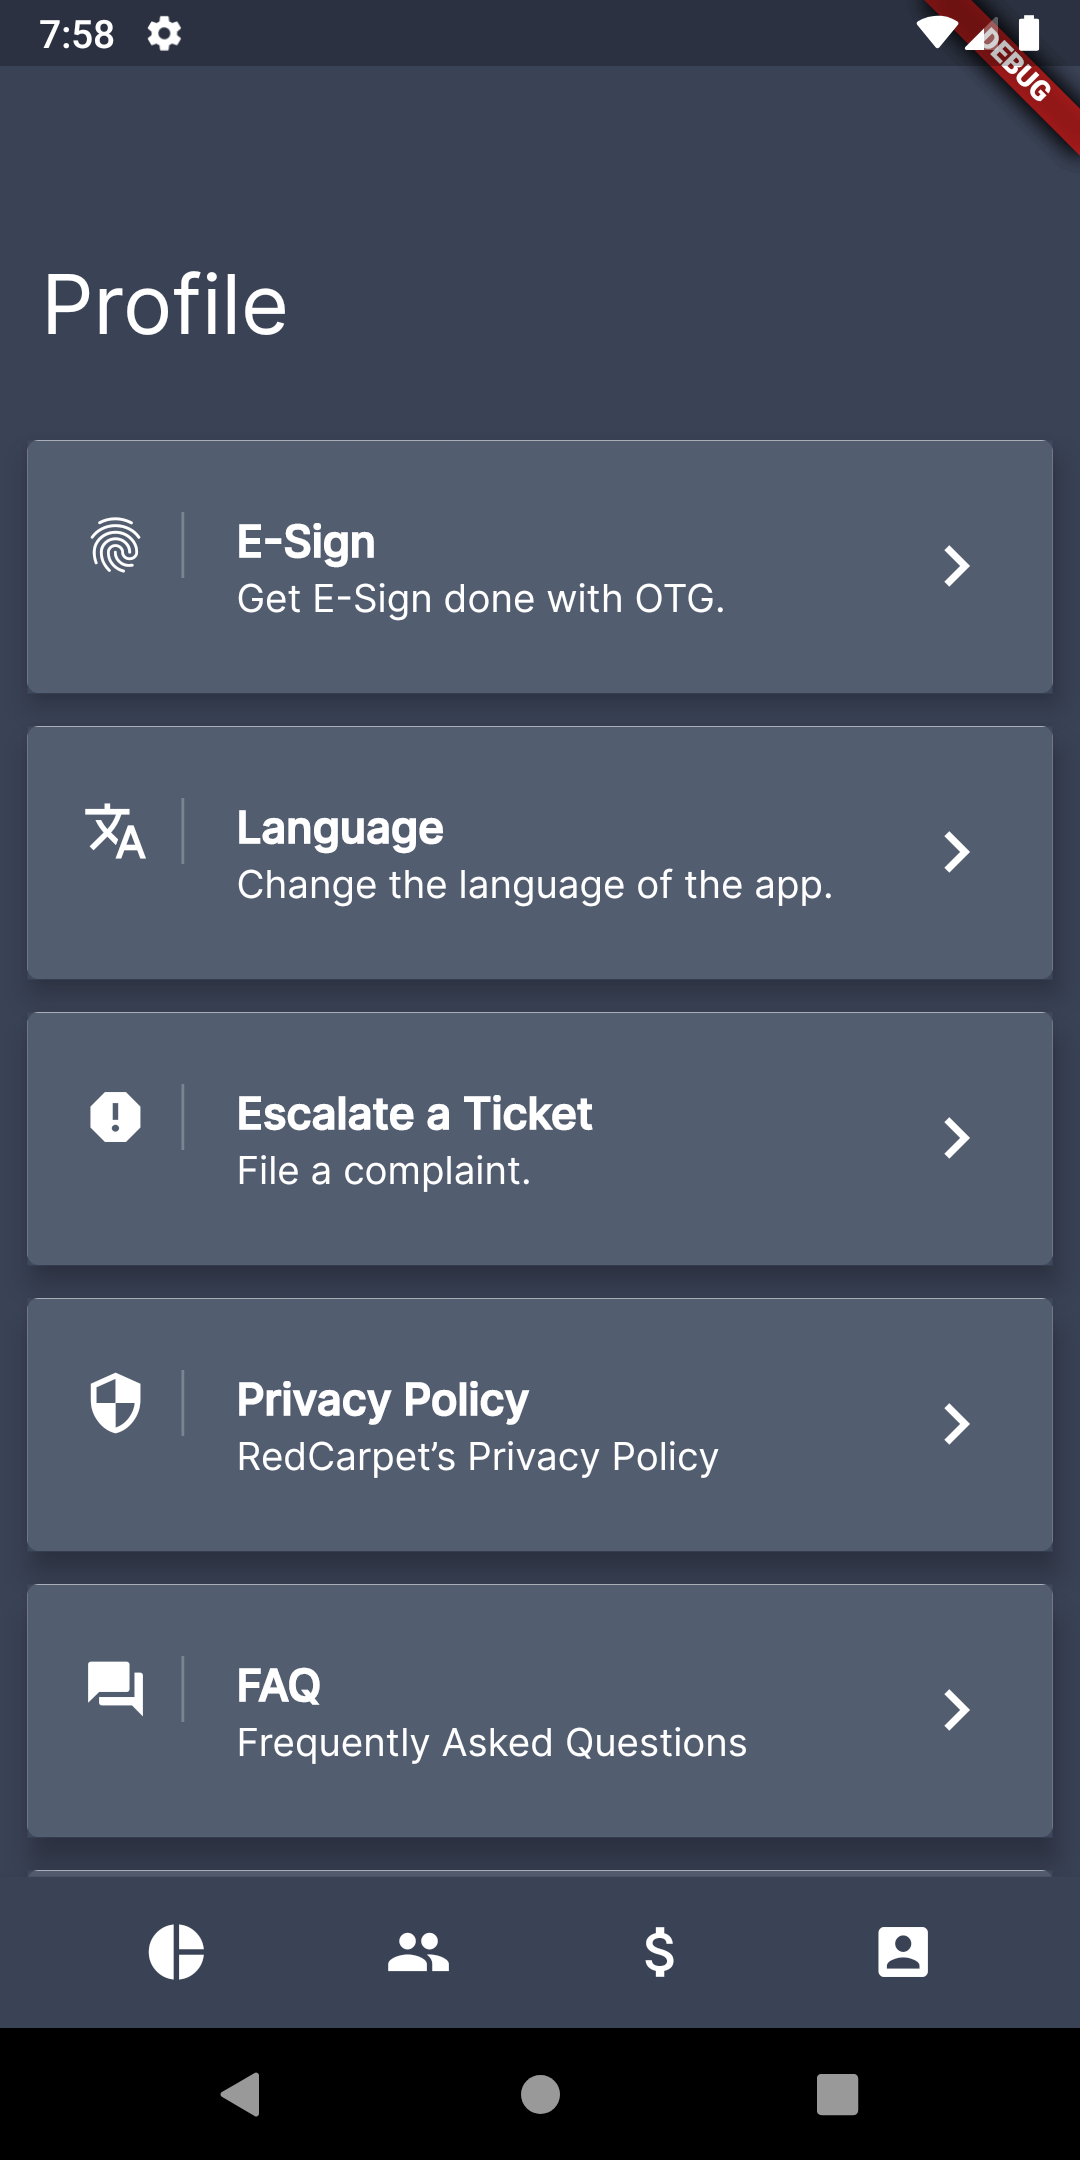
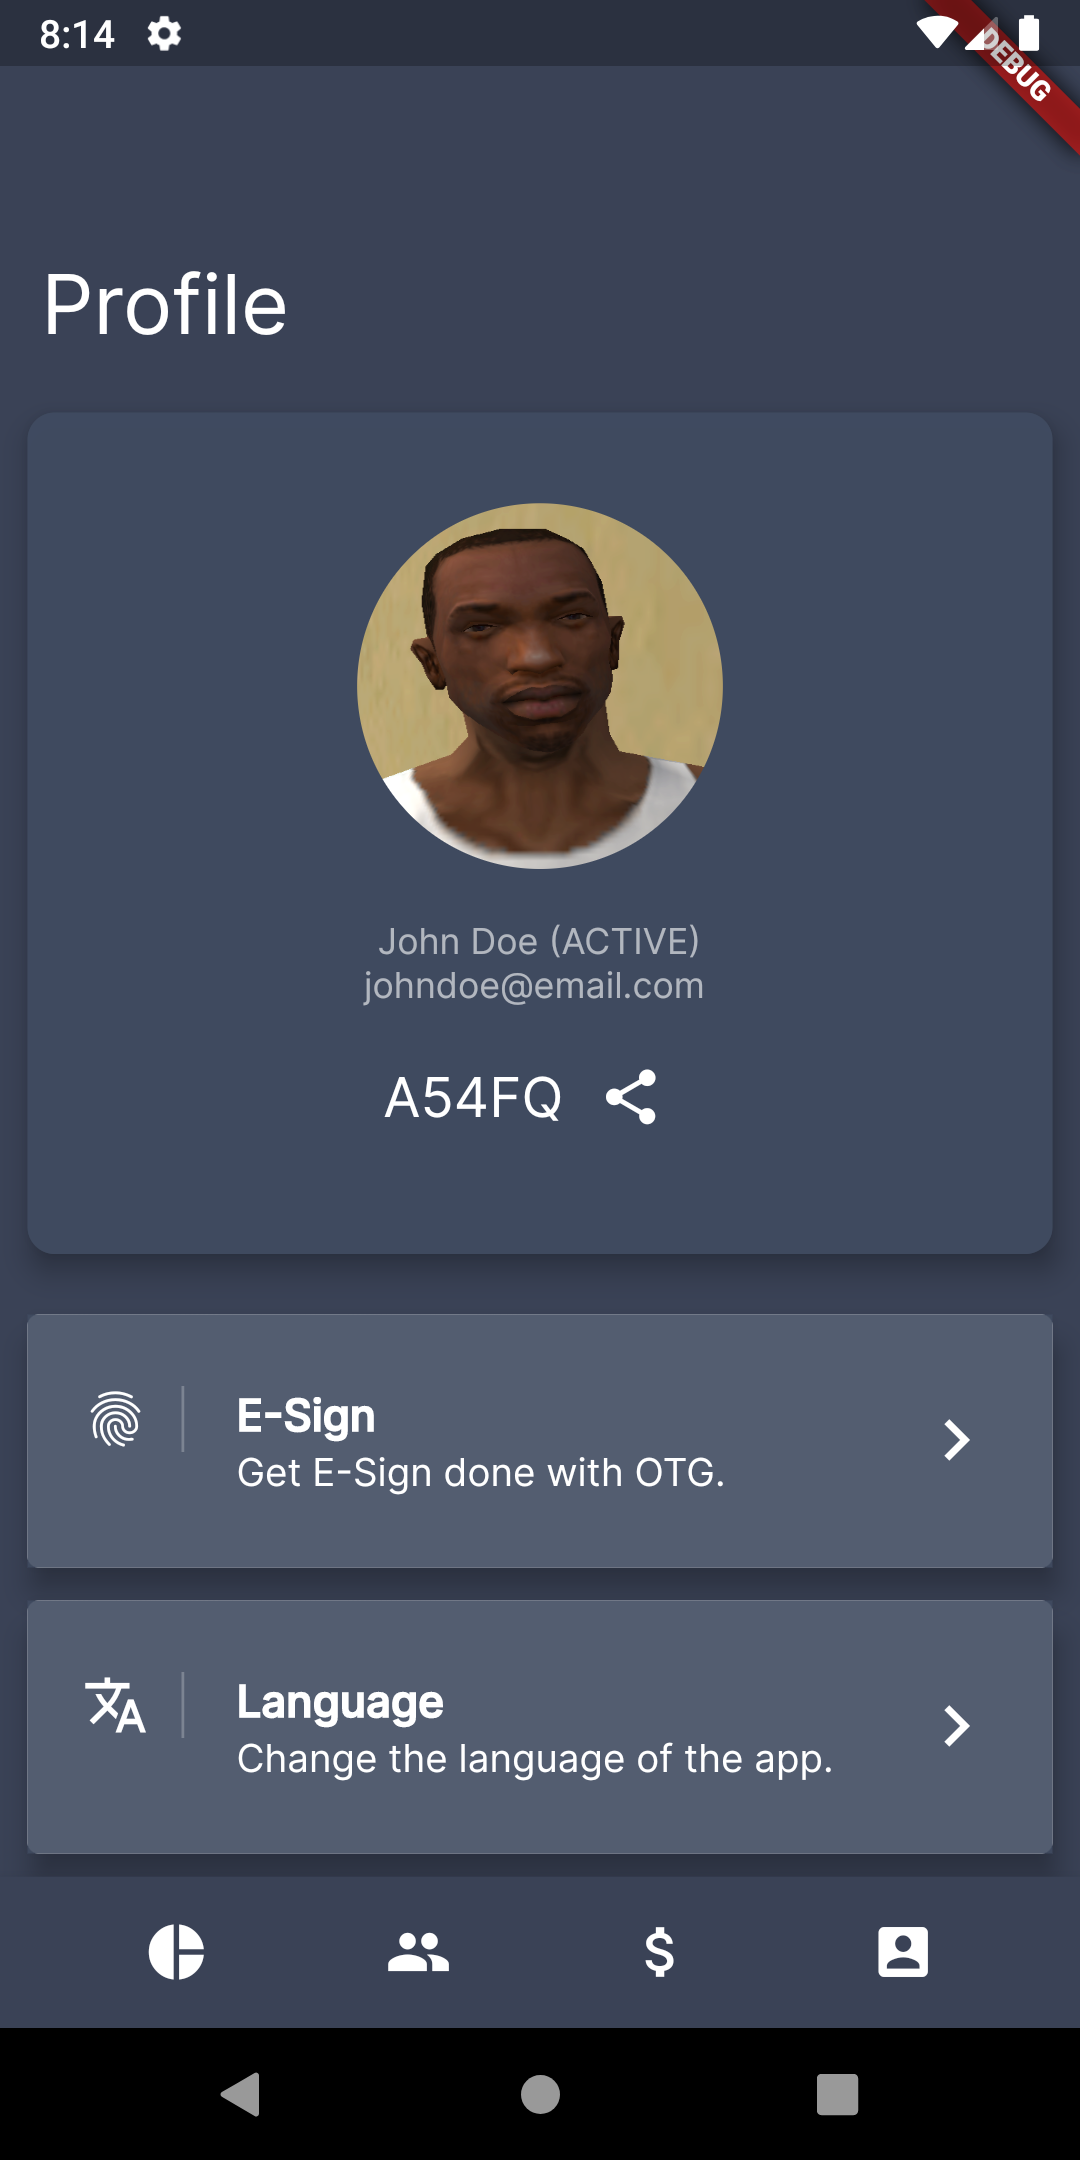
Added Profile card to Profile Screen

diff --git a/lib/Profile/profilecard.dart b/lib/Profile/profilecard.dart
@@ -1,0 +1,71 @@
+import 'package:flutter/material.dart';
+import 'package:total_recall/style.dart';
+
+class ProfileCard extends StatelessWidget {
+  @override
+  Widget build(BuildContext context) {
+    return Card(
+      elevation: 8.0,
+      margin: new EdgeInsets.symmetric(horizontal: 10.0, vertical: 6.0),
+      clipBehavior: Clip.antiAlias,
+      shape: RoundedRectangleBorder(
+        borderRadius: BorderRadius.circular(10.0),
+      ),
+      color: ColorDarkFG,
+      child: InkWell(
+          splashColor: ColorSplash,
+          onTap: () {},
+          child: Container(
+              decoration: BoxDecoration(color: ColorDarkFG),
+              padding: EdgeInsets.fromLTRB(20, 24, 20, 24),
+              child: Column(
+                children: <Widget>[
+                  Container(
+                      padding: EdgeInsets.fromLTRB(10.0, 9, 10.0, 9),
+                      //constraints: BoxConstraints.expand(height: 200.0),
+                      child: Center(
+                          child: new Column(
+                        crossAxisAlignment: CrossAxisAlignment.center,
+                        mainAxisAlignment: MainAxisAlignment.center,
+                        children: <Widget>[
+                          new Container(
+                              width: 133.0,
+                              height: 133.0,
+                              decoration: new BoxDecoration(
+                                  shape: BoxShape.circle,
+                                  image: new DecorationImage(
+                                      fit: BoxFit.fill,
+                                      image: new NetworkImage(
+                                          "https://i.imgur.com/BoN9kdC.png")))),
+                        ],
+                      ))),
+                  Container(
+                    padding: EdgeInsets.fromLTRB(10.0, 9, 10.0, 0.0),
+                    child: new Text(
+                      "John Doe (ACTIVE)",
+                      style: CardBodyTextStyle,
+                    ),
+                  ),
+                  Container(
+                    padding: EdgeInsets.fromLTRB(10.0, 0.0, 10.0, 9),
+                    child: new Text("johndoe@email.com ",
+                        style: CardBodyTextStyle),
+                  ),
+                  Container(
+                      padding: EdgeInsets.fromLTRB(10.0, 0.0, 10.0, 9),
+                      child: Row(
+                        mainAxisAlignment: MainAxisAlignment.center,
+                        children: <Widget>[
+                          Text("A54FQ", style: AppBarTextStyle),
+                          IconButton(
+                            icon: Icon(Icons.share),
+                            onPressed: () {},
+                            color: Colors.white,
+                          ),
+                        ],
+                      ))
+                ],
+              ))),
+    );
+  }
+}

diff --git a/lib/Profile/profile.dart b/lib/Profile/profile.dart
@@ -1,5 +1,6 @@
 import 'package:flutter/material.dart';
 import 'package:total_recall/Filters/filters.dart';
+import 'package:total_recall/Profile/profilecard.dart';
 import 'package:total_recall/Profile/profileoptions.dart';
 import 'package:total_recall/bottomnavbar.dart';
 import 'package:total_recall/filterglance.dart';
@@ -63,7 +64,7 @@ class _ListPageState extends State<ListPage> {
   static makeBody(BuildContext context) => Column(
     crossAxisAlignment: CrossAxisAlignment.start,
     children: <Widget>[
-      //StatsCard(),
+      ProfileCard(),
       Expanded(
         child: ListView.builder(
           padding: EdgeInsets.fromLTRB(0.0, 10.0, 0.0, 0.0),

diff --git a/lib/style.dart b/lib/style.dart
@@ -3,6 +3,7 @@ import 'package:flutter/material.dart';
 const LargeTextSize = 26.0;
 const MediumTextSize = 20.0;
 const BodyTextSize = 16.0;
+const CardBodyTextSize = 13.0;
 
 const String FontNameDefault = 'Inter';
 
@@ -25,6 +26,13 @@ const Body1TextStyle = TextStyle(
   fontWeight: FontWeight.w300,
   fontSize: BodyTextSize,
   color: Colors.black,
+);
+
+const CardBodyTextStyle = TextStyle(
+  fontFamily: FontNameDefault,
+  fontWeight: FontWeight.w300,
+  fontSize: CardBodyTextSize,
+  color: Colors.white60,
 );
 
 const ColorDarkBG = Color.fromRGBO(58, 66, 86, 1.0);
